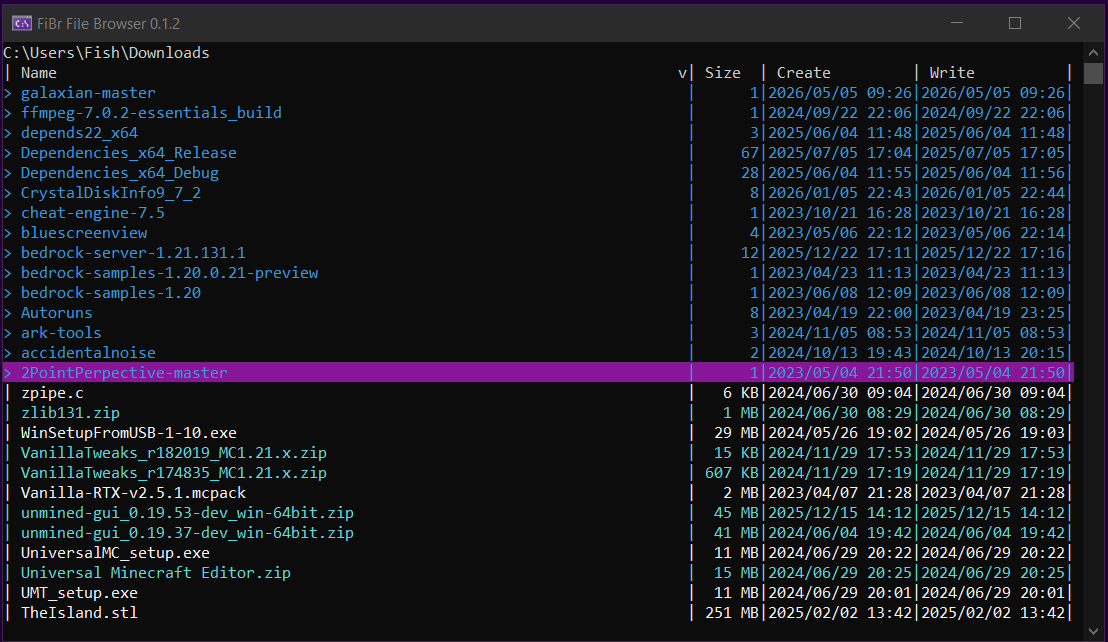
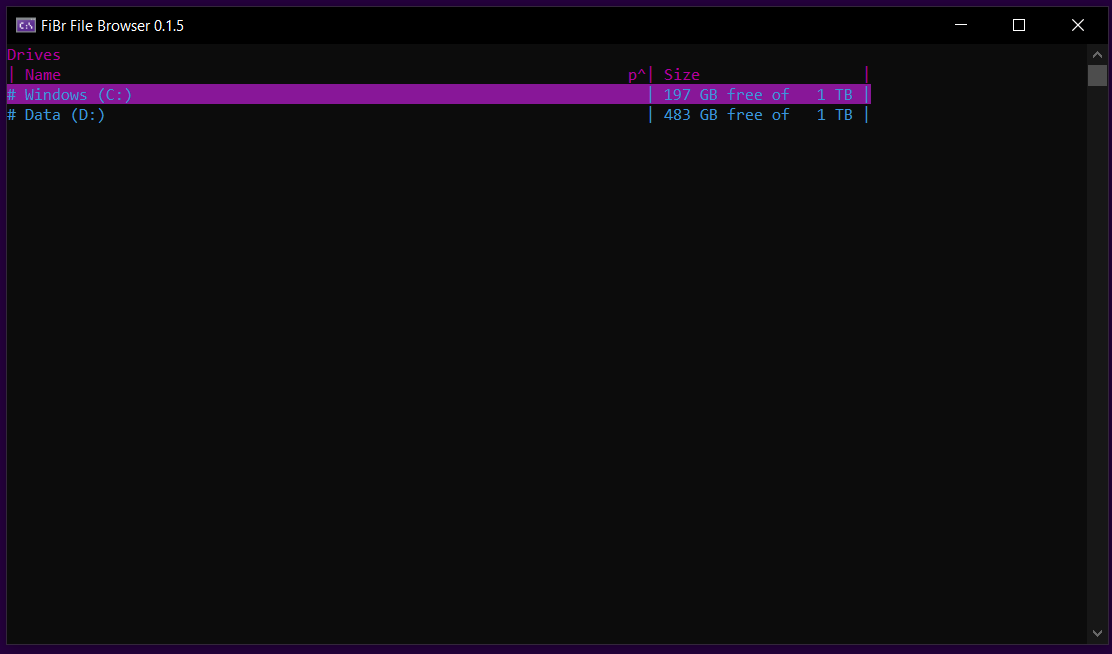
update readme and provide future excluded drives function

Changed region(s): [[0.0, 0.0, 1.0, 1.0]]

diff --git a/src/filesystem.c b/src/filesystem.c
@@ -3,6 +3,25 @@
 #include <Windows.h>
 
 
+static bool shouldHideDrive(const wchar_t* name)
+{
+	const wchar_t* names[] =
+	{
+		L"WINRE_DRV",
+		L"SYSTEM_DRV"
+	};
+
+	int len = (int)wcslen(name);
+
+	for (size_t i = 0; i < sizeof(names) / sizeof(wchar_t*); ++i)
+	{
+		if (lstrcmpiW(name, names[i]) == 0)
+			return true;
+	}
+
+	return false;
+}
+
 DriveArray getDrives()
 {
 	wchar_t buf[MAX_PATH] = { 0 };
@@ -37,7 +56,7 @@ DriveArray getDrives()
 		// Hidden partitions, hopefully consistantly named
 		// Need to ignore bc can't even access them
 		GetVolumeInformationW(buf, devName, MAX_PATH, NULL, NULL, NULL, NULL, 0);
-		if (wcscmp(devName, L"WINRE_DRV") != 0 && wcscmp(devName, L"SYSTEM_DRV") != 0)
+		if (!shouldHideDrive(devName))
 		{
 			if (array.count + 1 > cap)
 			{

diff --git a/README.md b/README.md
@@ -13,13 +13,19 @@ White entries are files.<br>
     - ex: (massive speedup for "C:\Windows\WinSxS" ~16,000 items)
 - Sorting:<br>
   - Pressing the same key toggles ascending/decending
-  - N sorts by name
-  - T sorts by type
-  - S sorts by size/count
-  - C sorts by creation date
-  - W sorts by last write date
+  - For normal directories:
+    - N sorts by name
+    - T sorts by type
+    - S sorts by size for files, item count for directories
+    - C sorts by creation date
+    - W sorts by last write date
+  - For drive view:
+    - N sorts by name
+    - S sorts by free space
+    - P sorts by drive path
 - Escape exits program<br>
 
 ## Screenshots:<br>
 ![screenshot0.png](screenshot0.png)<br>
 ![screenshot1.png](screenshot1.png)<br>
+![screenshot2.png](screenshot2.png)<br>
